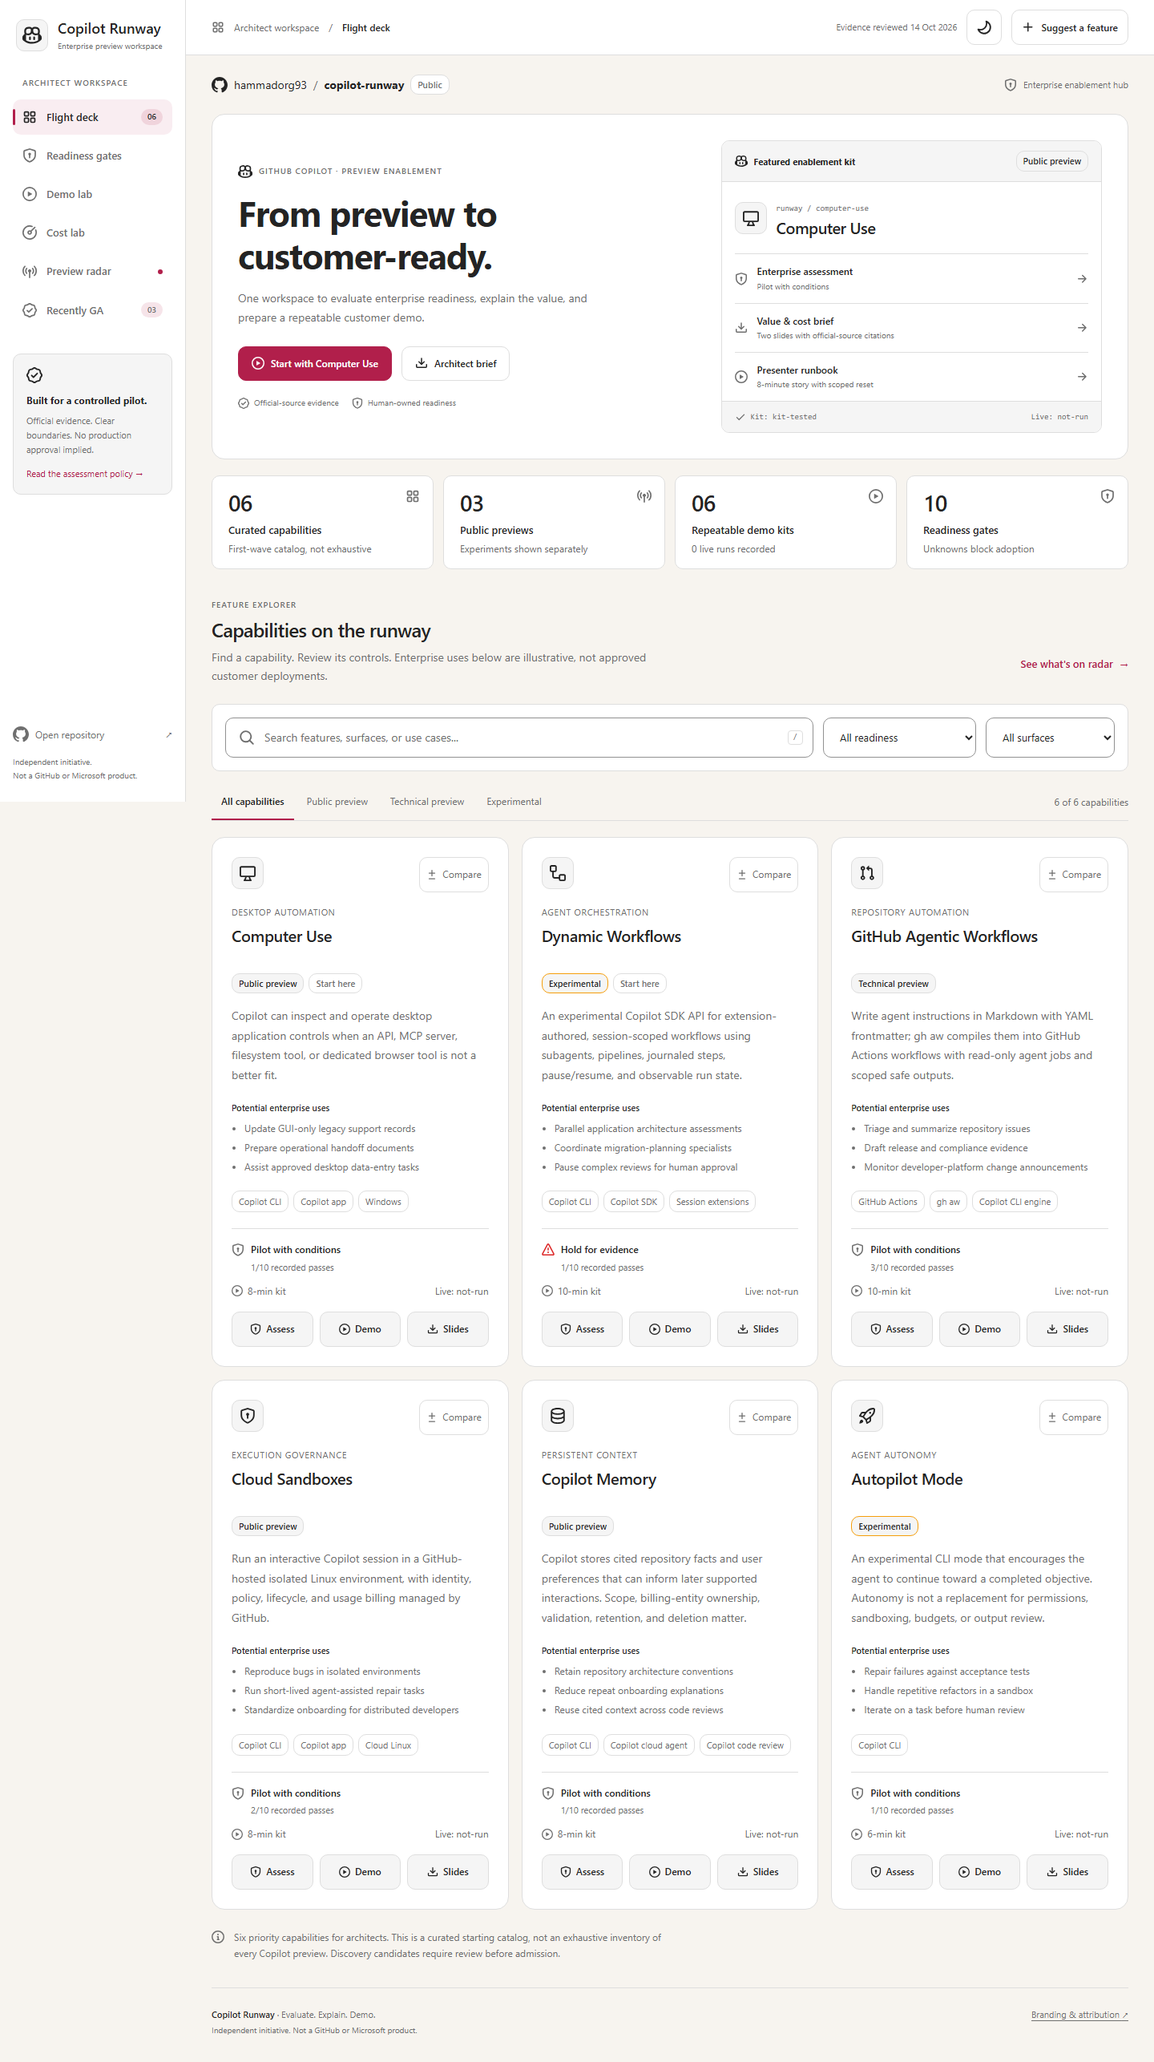
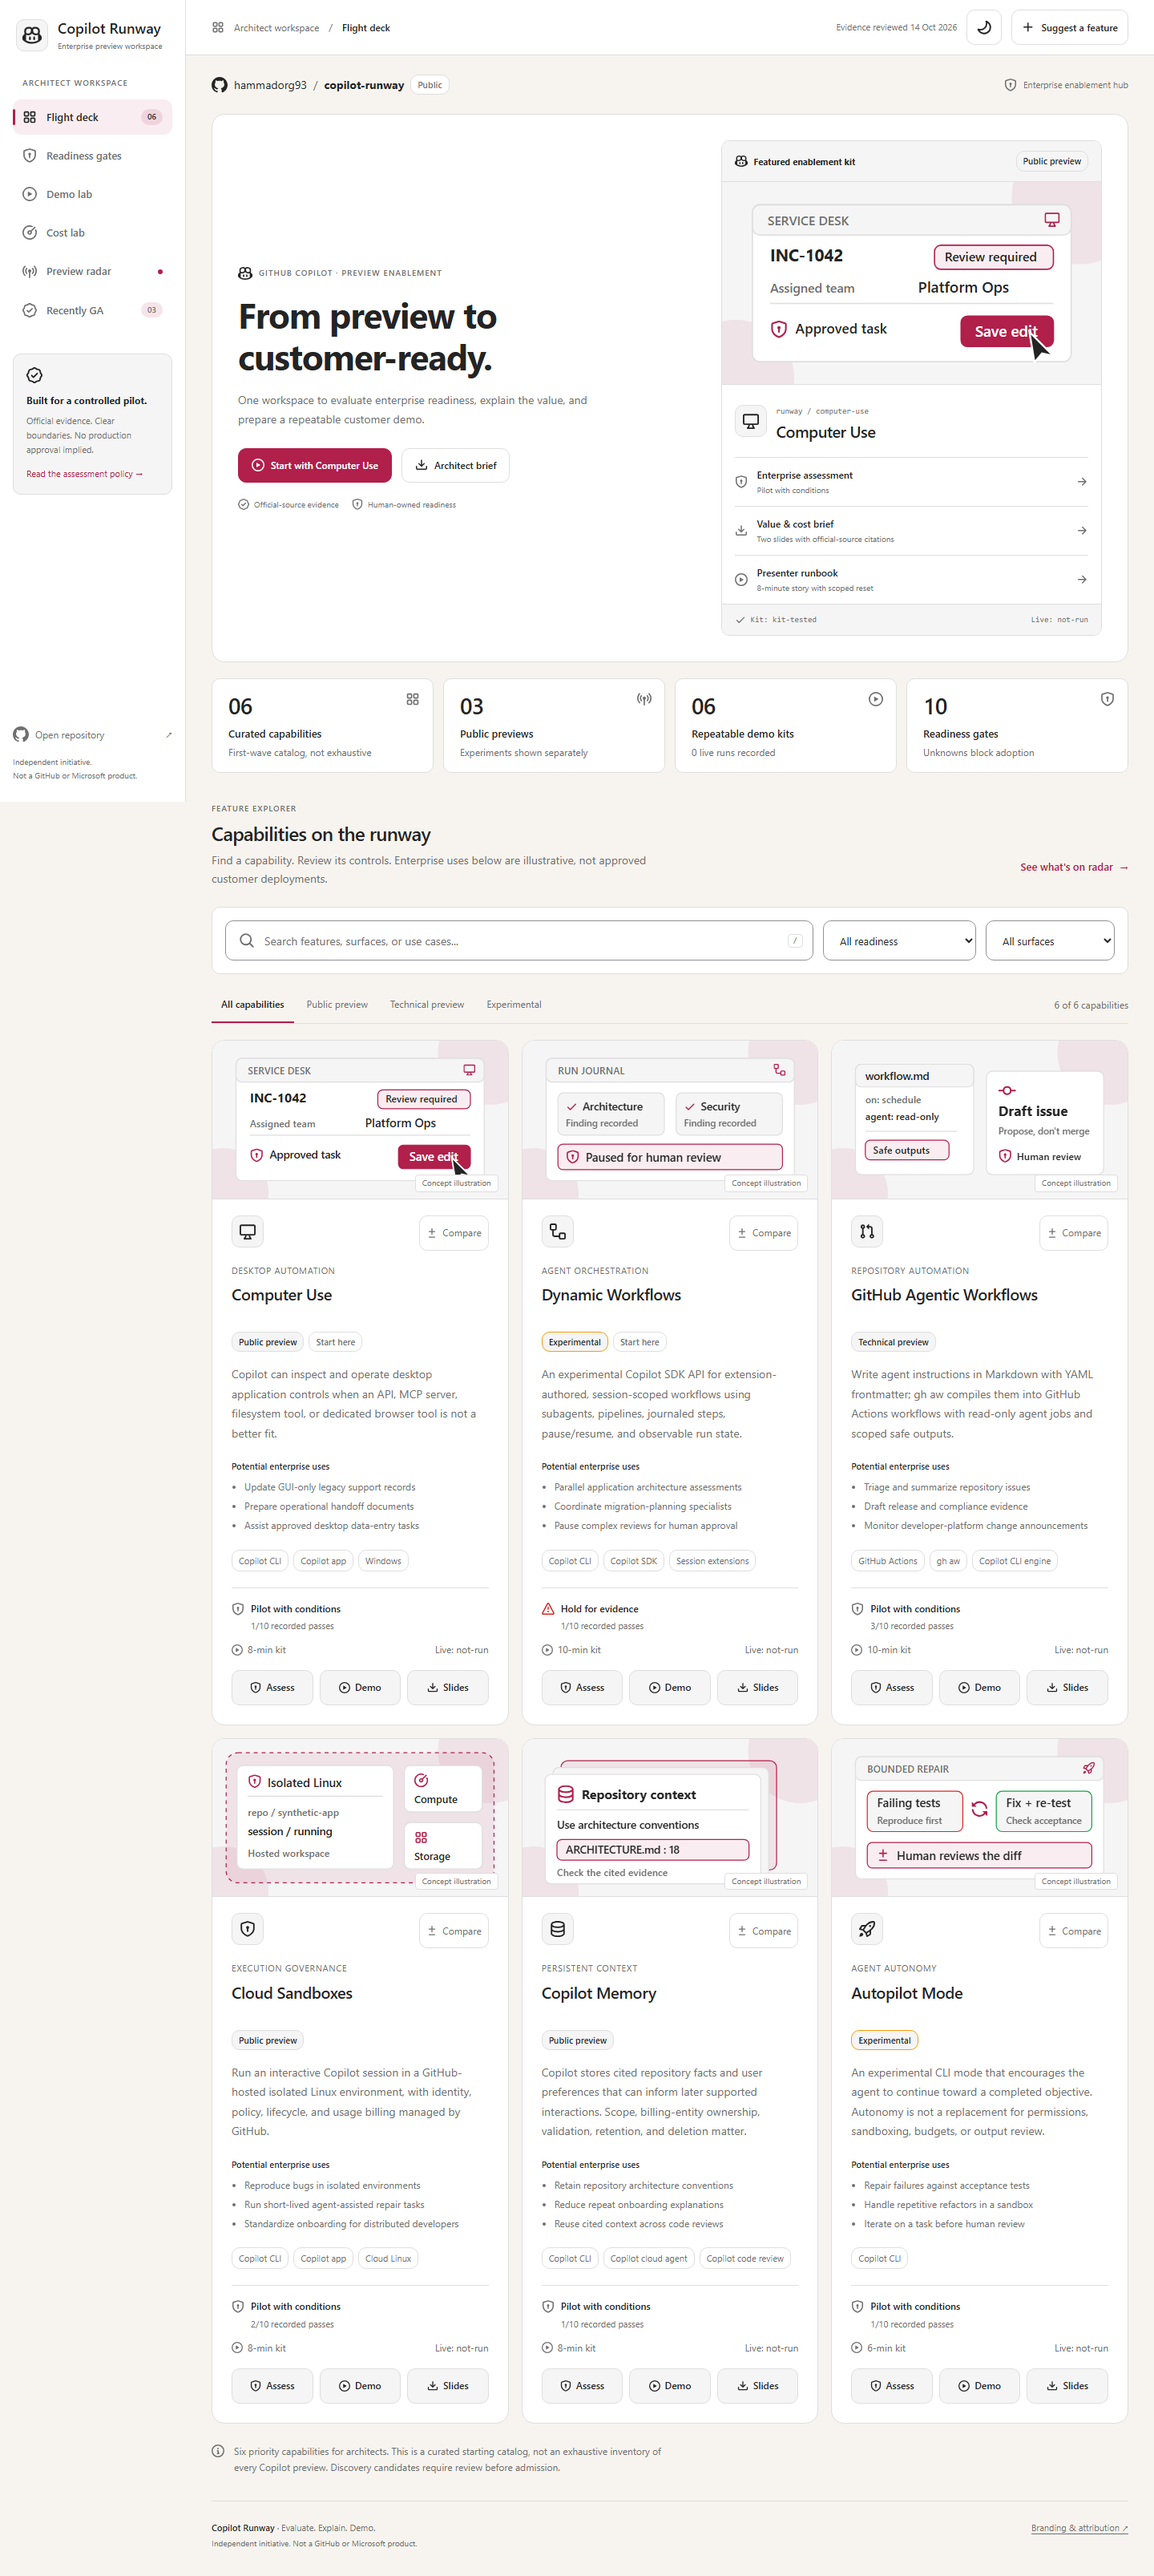
Add original feature artwork and downloadable visual briefs
Copilot-Session: 4c4f8061-851a-420d-8272-cc33c647e34b

diff --git a/site/styles.css b/site/styles.css
@@ -186,6 +186,17 @@ kbd { border: 1px solid var(--cp-border); border-radius: 4px; padding: 0 6px; fo
 .feature-grid { display: grid; grid-template-columns: repeat(3, minmax(0, 1fr)); gap: 16px; }
 .feature-card { min-width: 0; border: 1px solid var(--cp-border); border-radius: 16px; background: var(--cp-surface); padding: 24px; display: flex; flex-direction: column; transition: border-color .18s; }
 .feature-card:hover, .feature-card:focus-within { border-color: var(--cp-border-strong); }
+.feature-art { display: block; width: 100%; height: auto; }
+.feature-cover { position: relative; display: block; width: calc(100% + 48px); margin: -24px -24px 20px; padding: 0; border: 0; border-bottom: 1px solid var(--cp-border); border-radius: 15px 15px 0 0; overflow: hidden; background: var(--cp-surface-soft); text-align: left; }
+.feature-cover:hover { box-shadow: inset 0 -3px var(--cp-accent); }
+.visual-label { position: absolute; bottom: 8px; right: 12px; font-size: 10px; padding: 2px 8px; color: var(--cp-text-soft); background: var(--cp-surface); border: 1px solid var(--cp-border); border-radius: 4px; }
+.kit-visual { border-bottom: 1px solid var(--cp-border); }
+.feature-story { margin: 0 0 24px; overflow: hidden; border: 1px solid var(--cp-border); border-radius: 16px; background: var(--cp-surface-soft); }
+.feature-story > .feature-art { max-height: 320px; }
+.feature-story figcaption { padding: 20px; border-top: 1px solid var(--cp-border); background: var(--cp-surface); }
+.feature-story figcaption strong { display: block; font-size: 20px; margin-bottom: 12px; }
+.feature-story figcaption p { margin-bottom: 8px; }
+.feature-story figcaption small { display: block; color: var(--cp-text-soft); font-size: 11px; margin-bottom: 16px; }
 .card-top { display: flex; justify-content: space-between; align-items: flex-start; gap: 12px; margin-bottom: 16px; }
 .feature-icon { display: flex; align-items: center; justify-content: center; width: 40px; height: 40px; border: 1px solid var(--cp-border); border-radius: .625rem; color: var(--cp-text); background: var(--cp-surface-soft); flex: 0 0 auto; }
 .card-badges { display: flex; flex-wrap: wrap; gap: 6px; margin-bottom: 16px; }
@@ -407,6 +418,7 @@ td .source-links { font-size: 9px; margin: 8px 0 0; }
   .hero h1 { font-size: 40px; }
   .hero-actions { gap: 8px; }
   .feature-card { padding: 20px; }
+  .feature-cover { width: calc(100% + 40px); margin: -20px -20px 20px; }
   .metric { padding: 16px; }
   .metric-icon { display: none; }
   .demo-layout { grid-template-columns: 200px minmax(0, 1fr); }

diff --git a/README.md b/README.md
@@ -30,6 +30,8 @@ The site, slides, assessments, and runbooks are **public** and need no GitHub si
 
 The portal uses a responsive Microsoft Fluent-inspired shell and GitHub Primer-style feature explorer, Segoe typography, official Octicons, and light/dark themes. It is a self-contained static app: **no runtime API or model calls, analytics, remote fonts, customer data, or live automation**. Runbooks explain how to exercise the real products separately.
 
+Each feature now has an original, theme-aware **concept illustration**: a GUI service-desk edit, specialist journal, governed workflow draft, isolated cloud session, cited repository context, or bounded test-repair cycle. Click the illustrated cover for its control story and download a self-contained SVG for customer conversations. These are clearly labeled illustrations, not official product screenshots or evidence of a live run. Maintain them in `site/feature-visuals.mjs`; the build embeds them offline and exports `dist\artifacts\visuals\<feature-id>.svg` without changing assessed feature evidence or slide fingerprints.
+
 Press `/` to focus capability search. Release-stage filters and result counts remain visible on mobile; the navigation scrolls to the selected view. The comparison tray stays available while scrolling and leaves space at the end of the page so it does not cover the final controls.
 
 ## A customer-session journey
